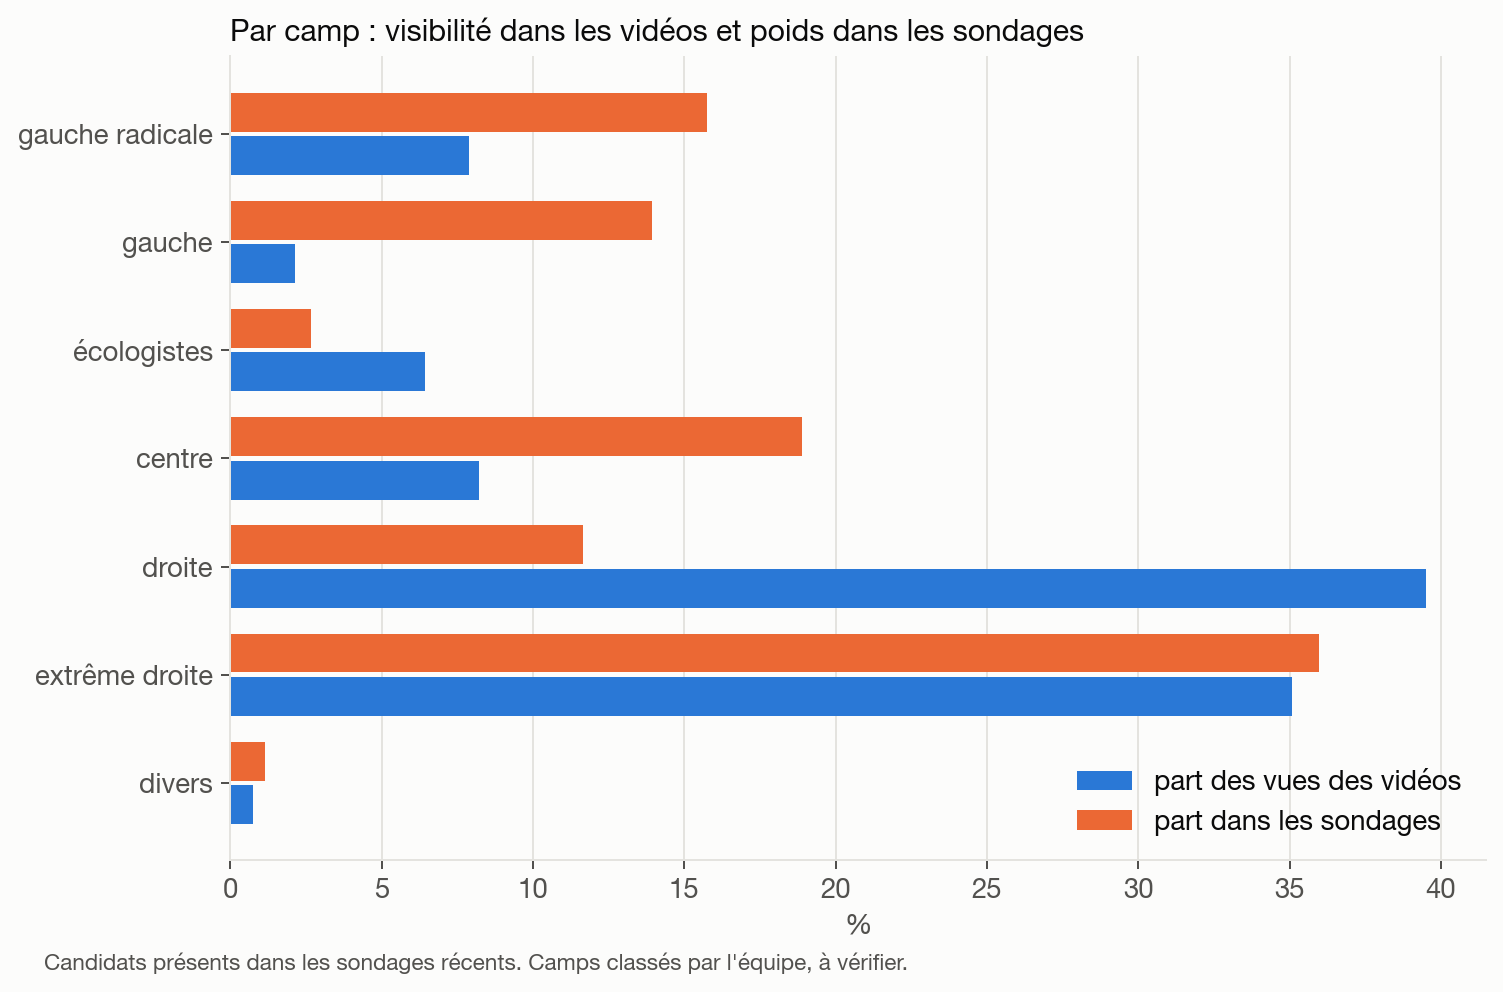
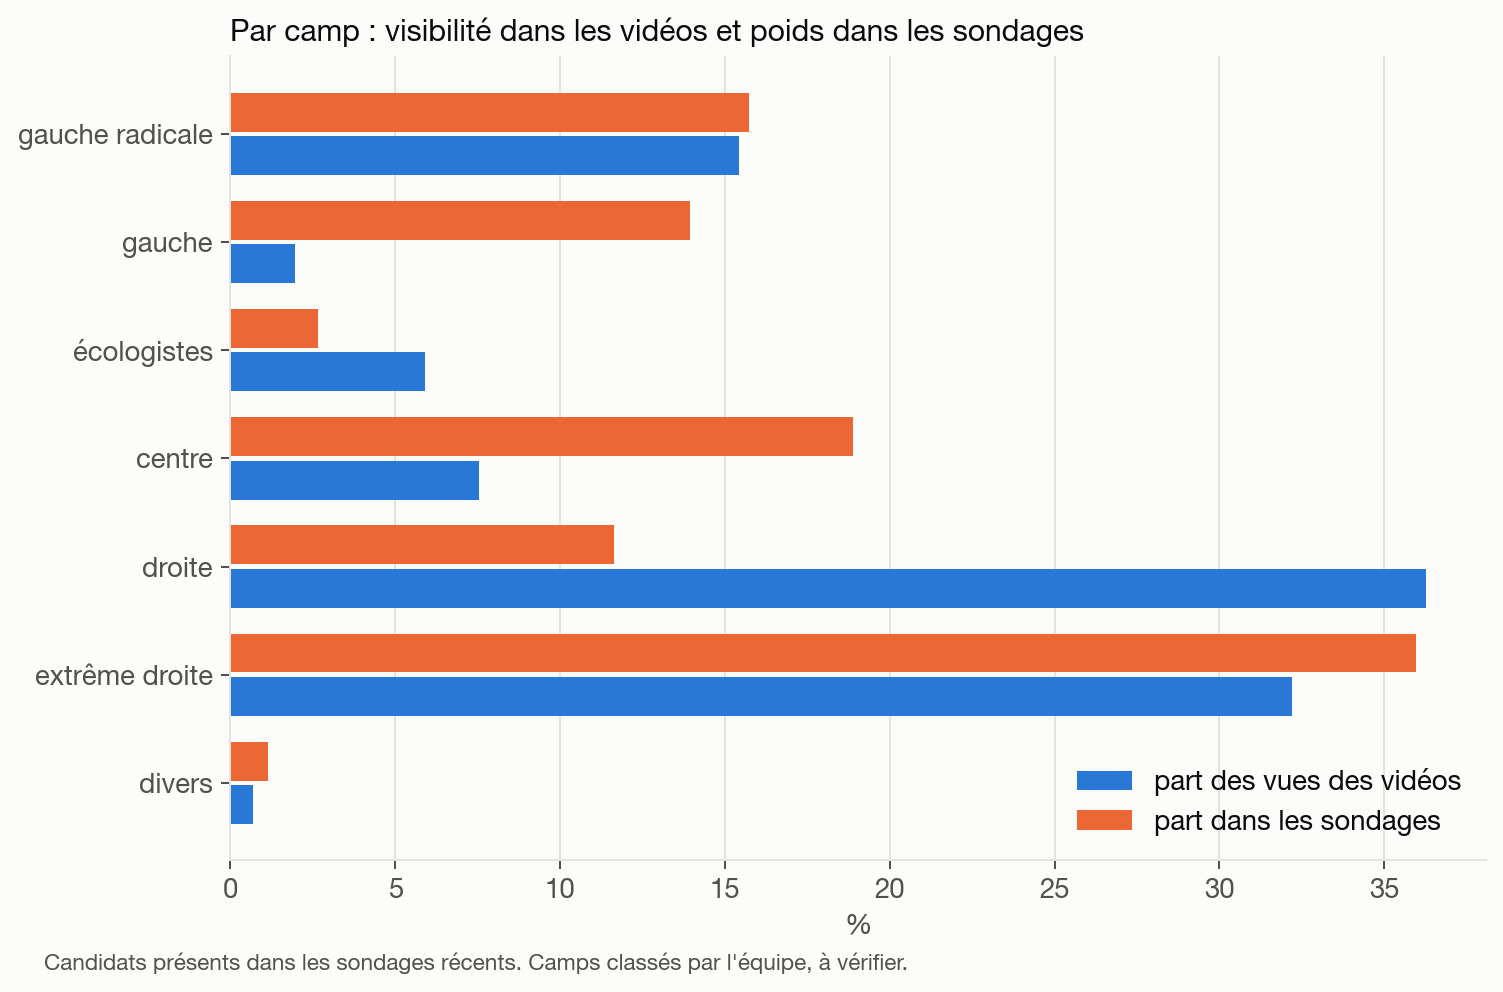
Accélération réelle corrigée du retard d'indexation, vues réelles pour la surexposition, graphiques à jour

diff --git a/pipeline/htf/sources/oriane.py b/pipeline/htf/sources/oriane.py
@@ -406,18 +406,36 @@ def people_volumes(names: list[str], end: date, recent_days: int, base_days: int
         _, n_b, a_b = api.search_meta({**base, "publishedAt": {"after": b_start.isoformat(),
                                                                  "before": (r_start - timedelta(days=1)).isoformat()}},
                                       q, limit=1, projection="basic")
-        return name, {"videos_recentes": n_r, "vues_recentes": a_r.get("totalViewsCount"),
-                      "interactions_recentes": a_r.get("totalInteractionsCount"),
-                      "videos_reference": n_b, "vues_reference": a_b.get("totalViewsCount"),
+        return name, {"videos_recentes": n_r, "vues_recentes": a_r.get("totalViewsCount") or 0,
+                      "interactions_recentes": a_r.get("totalInteractionsCount") or 0,
+                      "videos_reference": n_b, "vues_reference": a_b.get("totalViewsCount") or 0,
                       "periode": f"{r_start} → {end} (référence {b_start} → {r_start - timedelta(days=1)})"}
 
     try:
         with ThreadPoolExecutor(max_workers=config.ORIANE_WORKERS) as pool:
             out = dict(pool.map(one, names))
+        store.cache_set("oriane:people_volumes", out)
+        people_volume_totals(end, recent_days, base_days)
     except OrianeCreditsExhausted as e:
         return {"arrêt": str(e)}
-    store.cache_set("oriane:people_volumes", out)
     return {"personnalités": len(out), "appels": api.calls}
+
+
+def people_volume_totals(end: date, recent_days: int, base_days: int) -> dict:
+    """Total des vidéos FR indexées sur les deux mêmes périodes (2 appels basic) : sert à corriger
+    l'accélération du retard d'indexation (la période récente est toujours moins remplie)."""
+    api = Oriane()
+    base = {"platform": {"includes": ["tiktok", "instagram"]}, "format": {"includes": ["video"]}}
+    r_start = end - timedelta(days=recent_days - 1)
+    b_start = r_start - timedelta(days=base_days)
+    _, n_r = api.search({**base, "publishedAt": {"after": r_start.isoformat(), "before": end.isoformat()}},
+                        [FRENCH], limit=1, projection="basic")
+    _, n_b = api.search({**base, "publishedAt": {"after": b_start.isoformat(),
+                                                  "before": (r_start - timedelta(days=1)).isoformat()}},
+                        [FRENCH], limit=1, projection="basic")
+    totals = {"videos_fr_recentes": n_r, "videos_fr_reference": n_b}
+    store.cache_set("oriane:people_volume_totals", totals)
+    return totals
 
 
 PROFILES_FILE = config.ROOT / "docs" / "oriane-media-profiles.json"

diff --git a/pipeline/htf/analyze.py b/pipeline/htf/analyze.py
@@ -467,11 +467,14 @@ def people(now: datetime | None = None) -> list[dict]:
     out = polls.overexposure(out, now.date())
     # Volumes réels (agrégations Oriane sur tout l'index, commande `oriane-volumes`), si mesurés.
     volumes = store.cache_get("oriane:people_volumes") or {}
+    totals = store.cache_get("oriane:people_volume_totals") or {}
     for p in out:
         p["historique_videos"] = store.cache_get(f"polls:history:{p['nom']}")
         v = volumes.get(p["nom"])
         p["volume_reel"] = v
-        if v:
-            p["acceleration_reelle"] = round((v["videos_recentes"] / config.WINDOW_RECENT + 1) /
-                                             (v["videos_reference"] / config.WINDOW_BASELINE + 1), 2)
+        if v and totals.get("videos_fr_recentes") and totals.get("videos_fr_reference"):
+            # Part des vidéos FR qui la citent, récente contre référence : corrige le retard d'indexation
+            # (la période récente est toujours moins remplie). +1 vidéo de lissage pour les petits nombres.
+            p["acceleration_reelle"] = round(((v["videos_recentes"] + 1) / totals["videos_fr_recentes"]) /
+                                             ((v["videos_reference"] + 1) / totals["videos_fr_reference"]), 2)
     return out

diff --git a/pipeline/htf/politics.py b/pipeline/htf/politics.py
@@ -52,7 +52,7 @@ AFFILIATIONS = {
 INTERNATIONAL = ["Donald Trump", "Vladimir Poutine", "Volodymyr Zelensky", "Benyamin Netanyahou", "Joe Biden",
                  "Kamala Harris", "Elon Musk", "Xi Jinping", "Giorgia Meloni", "Friedrich Merz", "Keir Starmer",
                  "Mark Carney", "Flavio Bolsonaro", "Jair Bolsonaro", "Christine Lagarde", "Ursula von der Leyen",
-                 "Ousmane Sonko", "Bassirou Diomaye Faye"]
+                 "Ousmane Sonko", "Bassirou Diomaye Faye", "Barack Obama", "Zohran Mamdani", "Javier Milei"]
 
 CAMP_ORDER = ["extrême gauche", "gauche radicale", "gauche", "écologistes", "centre", "droite",
               "souverainistes", "extrême droite", "divers"]
